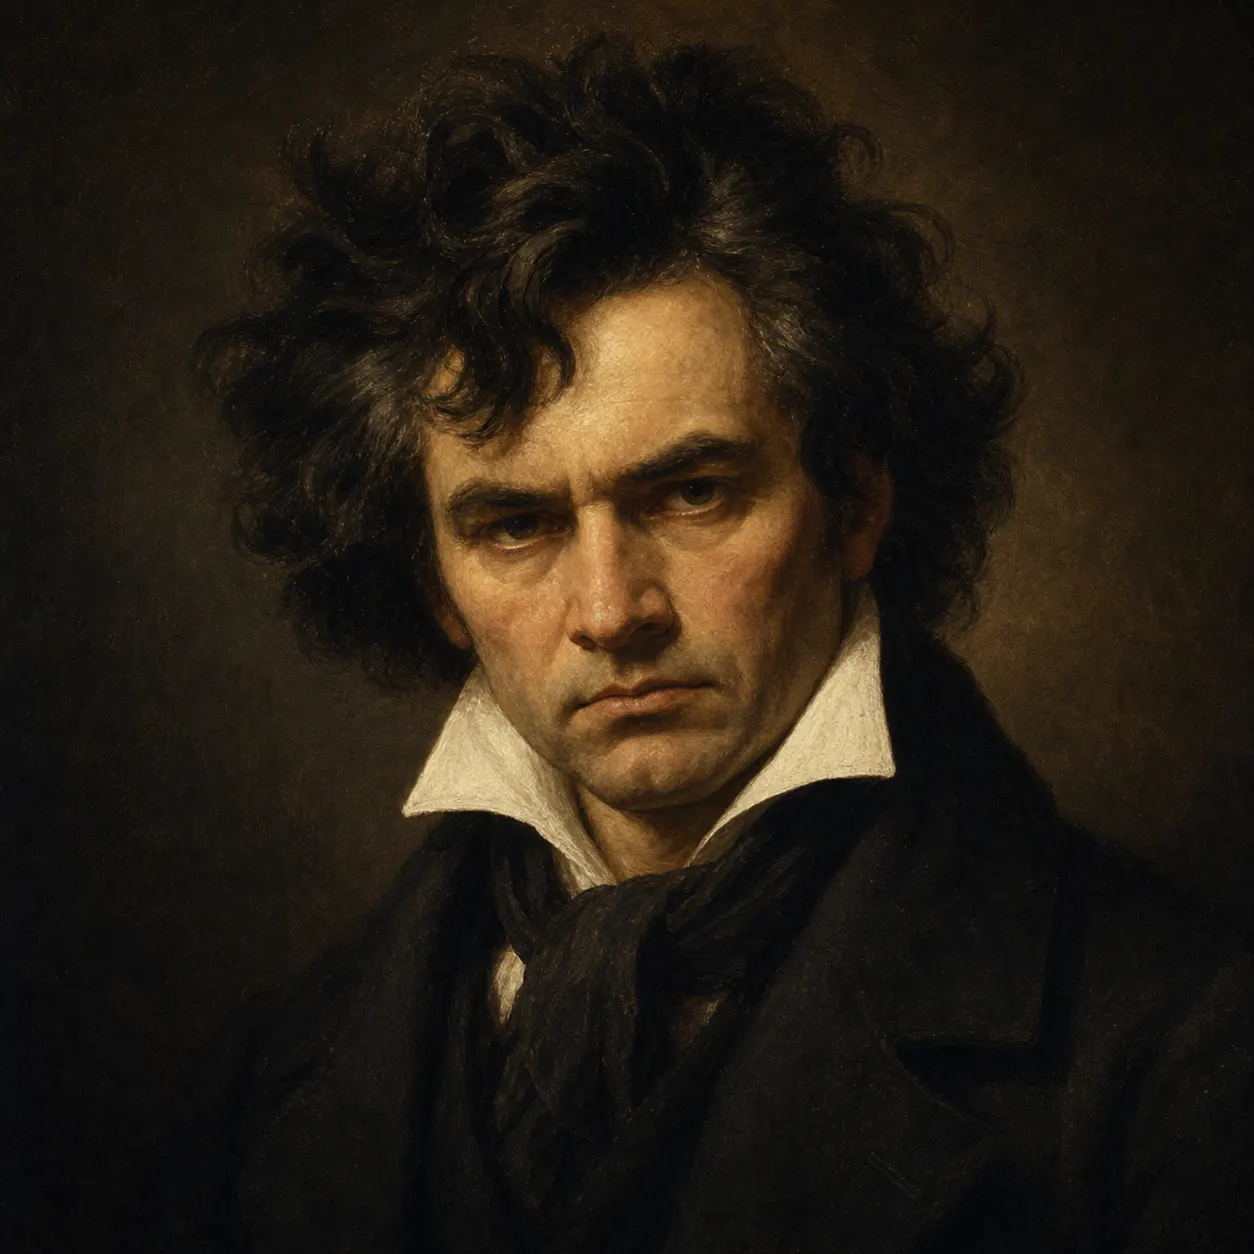
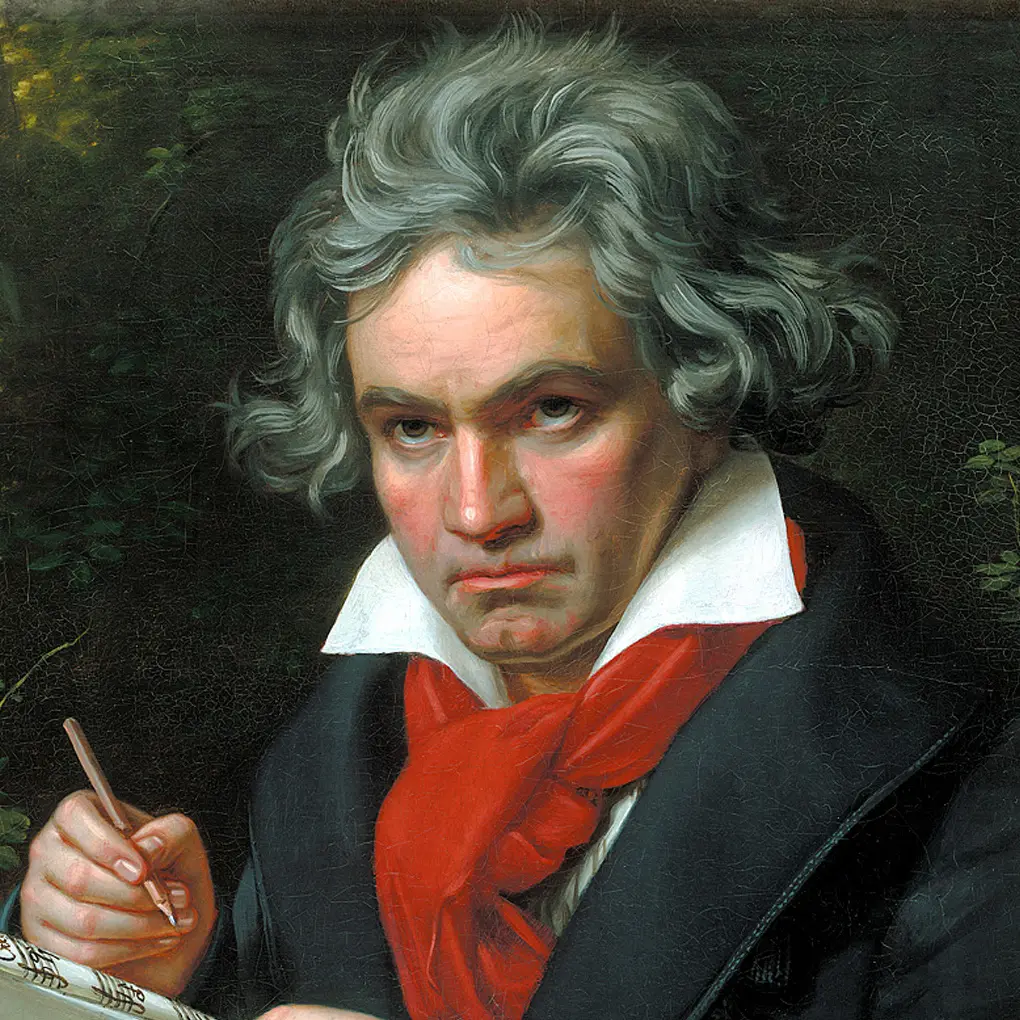
feat: use public-domain historical composer portraits
Replaces the AI-generated portraits, which also had Vivaldi showing Bach's
portrait and Dvořák showing a woman's. Each composer now has their own
portrait from Wikimedia Commons (all public domain), cropped to a square
head-and-shoulders frame, with an artist/year credit linking to the source.
A test guards that every composer has a unique, credited portrait.

diff --git a/src/data/composers.ts b/src/data/composers.ts
@@ -6,7 +6,12 @@ export const composers: Composer[] = [
     name: 'Johann Sebastian Bach',
     period: 'Baroque',
     bio: 'Counterpoint, sacred music, keyboard works, and solo suites.',
-    asset: 'composerBaroque',
+    asset: 'composerBach',
+    portrait: {
+      artist: 'Elias Gottlob Haussmann',
+      year: '1748',
+      source: 'https://commons.wikimedia.org/wiki/File:Johann_Sebastian_Bach.jpg',
+    },
     years: '1685-1750',
     nationality: 'German',
     knownFor: ['Counterpoint', 'Sacred music', 'Keyboard works'],
@@ -19,7 +24,12 @@ export const composers: Composer[] = [
     name: 'Wolfgang Amadeus Mozart',
     period: 'Classical',
     bio: 'Operas, concertos, chamber works, and symphonies.',
-    asset: 'composerAvatar',
+    asset: 'composerMozart',
+    portrait: {
+      artist: 'Barbara Krafft',
+      year: '1819',
+      source: 'https://commons.wikimedia.org/wiki/File:Wolfgang-amadeus-mozart_1.jpg',
+    },
     years: '1756-1791',
     nationality: 'Austrian',
     knownFor: ['Opera', 'Piano concertos', 'Symphonies'],
@@ -33,6 +43,11 @@ export const composers: Composer[] = [
     period: 'Classical / Romantic',
     bio: 'Symphonic drama, piano sonatas, quartets, and concertos.',
     asset: 'composerBeethoven',
+    portrait: {
+      artist: 'Joseph Karl Stieler',
+      year: '1820',
+      source: 'https://commons.wikimedia.org/wiki/File:Beethoven.jpg',
+    },
     years: '1770-1827',
     nationality: 'German',
     knownFor: ['Symphonies', 'Piano sonatas', 'String quartets'],
@@ -45,7 +60,12 @@ export const composers: Composer[] = [
     name: 'Clara Schumann',
     period: 'Romantic',
     bio: 'Piano works, songs, and a central concert career.',
-    asset: 'composerRomantic',
+    asset: 'composerClaraSchumann',
+    portrait: {
+      artist: 'Franz Hanfstaengl',
+      year: '1857',
+      source: 'https://commons.wikimedia.org/wiki/File:Franz_Hanfstaengl_-_Clara_Schumann_(1857)_(cropped).jpg',
+    },
     years: '1819-1896',
     nationality: 'German',
     knownFor: ['Piano works', 'Songs', 'Concert performance'],
@@ -59,6 +79,11 @@ export const composers: Composer[] = [
     period: 'Modern',
     bio: 'Color, atmosphere, and harmonic ambiguity.',
     asset: 'composerDebussy',
+    portrait: {
+      artist: 'Nadar',
+      year: 'c. 1908',
+      source: 'https://commons.wikimedia.org/wiki/File:Claude_Debussy_ca_1908,_foto_av_F%C3%A9lix_Nadar.jpg',
+    },
     years: '1862-1918',
     nationality: 'French',
     knownFor: ['Piano miniatures', 'Orchestral color', 'Harmonic atmosphere'],
@@ -72,6 +97,11 @@ export const composers: Composer[] = [
     period: 'Modern',
     bio: 'Rhythmic force, ballet, neoclassicism, and reinvention.',
     asset: 'composerStravinsky',
+    portrait: {
+      artist: 'Bain News Service',
+      year: 'c. 1920–25',
+      source: 'https://commons.wikimedia.org/wiki/File:Igor_Stravinsky_LOC_32392u.jpg',
+    },
     years: '1882-1971',
     nationality: 'Russian',
     knownFor: ['Ballet', 'Rhythmic drive', 'Neoclassicism'],
@@ -84,7 +114,12 @@ export const composers: Composer[] = [
     name: 'Antonio Vivaldi',
     period: 'Baroque',
     bio: 'Concertos, operas, sacred music, and vivid instrumental color.',
-    asset: 'composerBaroque',
+    asset: 'composerVivaldi',
+    portrait: {
+      artist: 'Unidentified painter',
+      year: '1723',
+      source: 'https://commons.wikimedia.org/wiki/File:Vivaldi.jpg',
+    },
     years: '1678-1741',
     nationality: 'Italian',
     knownFor: ['Violin concertos', 'Opera', 'Sacred music'],
@@ -97,7 +132,12 @@ export const composers: Composer[] = [
     name: 'Antonin Dvorak',
     period: 'Romantic',
     bio: 'Symphonies, chamber music, dances, and lyrical orchestral works.',
-    asset: 'composerRomantic',
+    asset: 'composerDvorak',
+    portrait: {
+      artist: 'Unknown photographer',
+      year: '1882',
+      source: 'https://commons.wikimedia.org/wiki/File:Dvorak.jpg',
+    },
     years: '1841-1904',
     nationality: 'Czech',
     knownFor: ['Symphonies', 'Chamber music', 'Slavonic Dances'],

diff --git a/src/App.css b/src/App.css
@@ -1154,6 +1154,24 @@ button {
   object-position: center;
 }
 
+.detail-visual-credit {
+  position: absolute;
+  right: 14px;
+  bottom: 12px;
+  z-index: 2;
+  padding: 4px 9px;
+  border-radius: 999px;
+  background: rgb(29 27 24 / 0.55);
+  color: rgb(255 253 248 / 0.88);
+  font-size: 12px;
+  font-weight: 600;
+  text-decoration: none;
+}
+
+.detail-visual-credit:hover {
+  background: rgb(29 27 24 / 0.75);
+}
+
 .detail-visual-hero-copy {
   position: relative;
   z-index: 2;
@@ -1709,7 +1727,25 @@ button {
     opacity: 0.46;
   }
 
-  .detail-visual-hero-copy {
+  .detail-visual-credit {
+  position: absolute;
+  right: 14px;
+  bottom: 12px;
+  z-index: 2;
+  padding: 4px 9px;
+  border-radius: 999px;
+  background: rgb(29 27 24 / 0.55);
+  color: rgb(255 253 248 / 0.88);
+  font-size: 12px;
+  font-weight: 600;
+  text-decoration: none;
+}
+
+.detail-visual-credit:hover {
+  background: rgb(29 27 24 / 0.75);
+}
+
+.detail-visual-hero-copy {
     width: auto;
     max-width: none;
     padding: 36px 34px 46px;
@@ -1847,7 +1883,25 @@ button {
     gap: 12px;
   }
 
-  .detail-visual-hero-copy {
+  .detail-visual-credit {
+  position: absolute;
+  right: 14px;
+  bottom: 12px;
+  z-index: 2;
+  padding: 4px 9px;
+  border-radius: 999px;
+  background: rgb(29 27 24 / 0.55);
+  color: rgb(255 253 248 / 0.88);
+  font-size: 12px;
+  font-weight: 600;
+  text-decoration: none;
+}
+
+.detail-visual-credit:hover {
+  background: rgb(29 27 24 / 0.75);
+}
+
+.detail-visual-hero-copy {
     padding: 30px 24px 36px;
   }
 

diff --git a/src/assets/catalog-assets.ts b/src/assets/catalog-assets.ts
@@ -1,11 +1,13 @@
 import chamberSonata from '@/assets/catalog/chamber-sonata.webp'
 import chamberMusicCategory from '@/assets/home/chamber-music.webp'
-import composerAvatar from '@/assets/catalog/composer-avatar.webp'
-import composerBaroque from '@/assets/catalog/composer-baroque.webp'
+import composerBach from '@/assets/catalog/composer-bach.webp'
 import composerBeethoven from '@/assets/catalog/composer-beethoven.webp'
+import composerClaraSchumann from '@/assets/catalog/composer-clara-schumann.webp'
 import composerDebussy from '@/assets/catalog/composer-debussy.webp'
-import composerRomantic from '@/assets/catalog/composer-romantic.webp'
+import composerDvorak from '@/assets/catalog/composer-dvorak.webp'
+import composerMozart from '@/assets/catalog/composer-mozart.webp'
 import composerStravinsky from '@/assets/catalog/composer-stravinsky.webp'
+import composerVivaldi from '@/assets/catalog/composer-vivaldi.webp'
 import operaCurtain from '@/assets/home/opera-curtain.webp'
 import pianoKeys from '@/assets/home/piano-keys.webp'
 import pianoConcerto from '@/assets/catalog/piano-concerto.webp'
@@ -22,12 +24,14 @@ export const catalogAssets = {
   aboutConcertHall,
   chamberSonata,
   chamberMusicCategory,
-  composerAvatar,
-  composerBaroque,
+  composerBach,
   composerBeethoven,
+  composerClaraSchumann,
   composerDebussy,
-  composerRomantic,
+  composerDvorak,
+  composerMozart,
   composerStravinsky,
+  composerVivaldi,
   operaCurtain,
   pianoKeys,
   pianoConcerto,

diff --git a/src/components/detail-hero.tsx b/src/components/detail-hero.tsx
@@ -8,12 +8,18 @@ type DetailHeroBreadcrumb = {
   to?: string
 }
 
+type DetailHeroImageCredit = {
+  label: string
+  href: string
+}
+
 type DetailHeroProps = {
   breadcrumb: DetailHeroBreadcrumb[]
   description?: string
   facts?: FactListItem[]
   factsTitle?: string
   imageAlt?: string
+  imageCredit?: DetailHeroImageCredit
   imageSrc: string
   meta?: ReactNode
   quote?: string
@@ -27,6 +33,7 @@ export function DetailHero({
   facts,
   factsTitle,
   imageAlt = '',
+  imageCredit,
   imageSrc,
   meta,
   quote,
@@ -36,6 +43,11 @@ export function DetailHero({
   return (
     <section className="detail-visual-hero">
       <img src={imageSrc} alt={imageAlt} />
+      {imageCredit ? (
+        <a className="detail-visual-credit" href={imageCredit.href} target="_blank" rel="noreferrer">
+          {imageCredit.label}
+        </a>
+      ) : null}
       <div className="detail-visual-hero-copy">
         <nav className="detail-visual-breadcrumb" aria-label="Breadcrumb">
           {breadcrumb.map((item, index) => (

diff --git a/src/data/guides.ts b/src/data/guides.ts
@@ -46,7 +46,7 @@ export const guides: Guide[] = [
     type: 'Period guide',
     category: 'Periods',
     description: 'A look at the era of emotion, expression, and grandeur.',
-    asset: 'composerRomantic',
+    asset: 'composerClaraSchumann',
     readTime: '7 min read',
     audience: 'History explorers',
     overview:
@@ -59,7 +59,7 @@ export const guides: Guide[] = [
     type: 'Composer guide',
     category: 'Composers',
     description: 'Counterpoint, sacred drama, and the architecture behind the music.',
-    asset: 'composerBaroque',
+    asset: 'composerBach',
     readTime: '6 min read',
     audience: 'Composer-focused listeners',
     overview:

diff --git a/src/data/catalog.test.ts b/src/data/catalog.test.ts
@@ -45,6 +45,15 @@ describe('catalog data', () => {
     }
   })
 
+  it('gives every composer their own credited portrait', () => {
+    expect(new Set(composers.map((composer) => composer.asset)).size).toBe(composers.length)
+
+    for (const composer of composers) {
+      expect(composer.portrait.artist, composer.name).not.toBe('')
+      expect(composer.portrait.source, composer.name).toMatch(/^https:\/\/commons\.wikimedia\.org\/wiki\/File:/)
+    }
+  })
+
   it('gives every guide at least one section', () => {
     for (const guide of guides) {
       expect(guide.sections.length, guide.title).toBeGreaterThan(0)

diff --git a/src/pages/composer-detail-page.tsx b/src/pages/composer-detail-page.tsx
@@ -38,6 +38,11 @@ export function ComposerDetailPage({ composer }: ComposerDetailPageProps) {
         ]}
         facts={facts}
         factsTitle="Quick facts"
+        imageAlt={`Portrait of ${composer.name}`}
+        imageCredit={{
+          label: `Portrait: ${composer.portrait.artist}, ${composer.portrait.year} · Wikimedia Commons`,
+          href: composer.portrait.source,
+        }}
         imageSrc={catalogAssets[composer.asset]}
         quote={composer.quote}
         subtitle={composer.years}

diff --git a/src/models/composer.ts b/src/models/composer.ts
@@ -1,11 +1,19 @@
 import type { CatalogAssetKey } from '@/assets/catalog-assets'
 
+/** A public-domain portrait, credited on the composer page. */
+export type Portrait = {
+  artist: string
+  year: string
+  source: string
+}
+
 export type Composer = {
   id: string
   name: string
   period: string
   bio: string
   asset: CatalogAssetKey
+  portrait: Portrait
   years: string
   nationality: string
   knownFor: string[]
